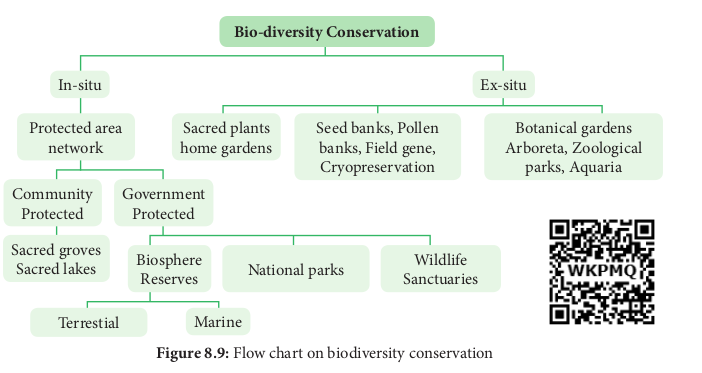
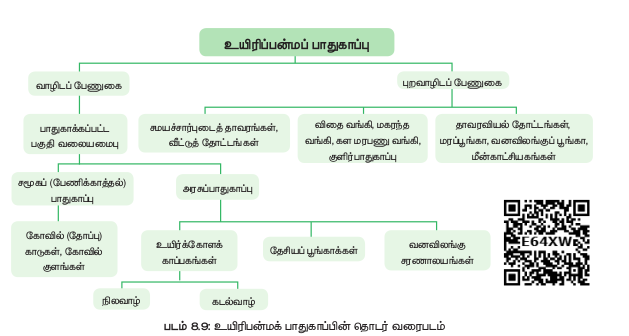
tamil content added

diff --git a/content.ta/environmental-issues/conservation.md b/content.ta/environmental-issues/conservation.md
@@ -3,62 +3,143 @@ title: 'பாதுகாப்பு'
 weight: 7
 ---
 
- 
+ நிலப்பரப்பு, புவியியல் மற்றும் காலநிலை வடிவங்கள்,
+முறைகள் ஆகியவற்றால் இந்தியா பல்வேறுபட்ட
+உயிரி வகைகளைக் க�ொண்டுள்ளன. இம்மாபெரும்
+பன்முகத்தன்மை பல சுற்றுச்சூழல் பிரச்சினைகள்
+காரணமாக
+தற்போது
+அச்சுறுத்தலுக்கு
+உள்ளாகியுள்ளது. இதற்குப் பாதுகாப்பு என்ற ஒரு
+முக்கிய கருவியை நமது ச�ொந்த மண்ணிலிருந்து பல
+இனங்கள்
+இழத்தலைக்
+குறைப்பதற்குப்
+பயன்படுத்தலாம். இனச்செல் வளக்கூறு பாதுகாப்பு,
+வாழிடப் பேணுகை(in situ) , புற வாழிடப் பேணுகை
+(ex situ), ஆய்வுக்கூட வளர்ப்பு முறைமாதிரிகள் (in
+மேலாண்மை
+உத்திகளைப்
+vitro),
+ஆகிய
+பயன்படுத்துவதன் மூலம் இடவரை (endemic) மற்றும்
+அச்சுறுத்தப்படும் சிற்றினங்கள் பாதுகாக்கப்படுகின்றன.
+
+**வாழிடப் பேணுகை பாதுகாப்பு (insitu conservation)**
+இவை இயற்கை வாழிடங்களில் காணப்படும் மரபியல்
+ஆதாரங்களின் மேலாண்மை மற்றும் பாதுகாப்பு
+என்பதாகும்.
+இங்குத்
+தாவரங்கள்
+அல்லது
+விலங்கினங்கள் தற்போதுள்ள வாழ்விடங்களிலேயே
+பாதுகாக்கப்படுகின்றன. இப்பாதுகாப்பு முறை மூலம்
+அச்சுறுத்தலுக்குட்பட்ட வன மரங்கள், மருத்துவ மற்றும்
+நறுமணத்தாவரங்கள்
+பாதுகாக்கப்படுகின்றன.
+சமுதாயம் அல்லது மாநிலப் பாதுகாப்பு மூலம்
+வனவிலங்கு, தேசியப் பூங்கா மற்றும் உயிர்கோள
+காப்பகங்கள்
+உள்ளடக்கியவை
+செயல்படுத்தப்படுகின்றன.
+சுற்றுச்சூழல்
+ரிதீயாக
+தனித்துவம் பெற்ற மற்றும் பல்வகைமை நிறைந்த
+பகுதிகள்
+சட்டப்பூர்வமாக
+வன
+விலங்கு
+சரணாலயங்கள், தேசியப் பூங்காக்கள் மற்றும்
+உயிர்கோளம்,
+உயிரியல்
+காப்பகங்களாகப்
+பாதுகாக்கப்படுகின்றன. மேகமலை , சத்தியமங்கலம்
+வன உயிரி காப்பகம், கிண்டி மற்றும் பெரியார்
+தேசியப்பூங்கா , மேற்கு த�ொடர்ச்சி மலை , நீலகிரி,
+அகஸ்திய மலை மற்றும் மன்னார் வளைகுடா
+ஆகியவை தமிழ்நாட்டின் உயிர்கோள காப்பகங்கள்
+ஆகும்.
+
+**க�ோயில் காடுகள் (sacred groves)**
+இவை சமூகங்களால் பாதுகாக்கப்பட்டு வளர்க்கப்பட்ட
+மரங்களின்
+த�ொகுப்புகளாகவ�ோ
+அல்லது
+த�ோட்டங்களாகவ�ோ சமூகத்தின் பாதுகாப்பிற்காக
+சமயச்
+சித்தாந்தங்களைக்
+ஒருகுறிப்பிட்ட
+க�ொண்டிருக்கும் வலுவான மத நம்பிக்கை க�ொண்ட
+அமைப்புகளை
+அடிப்படையாகக்
+க�ொண்டவை.
+பெரும்பாலும்
+ஒவ்வொரு
+கிராமத்துக்
+க�ோயில்காடுகளும் ஐயனார் அல்லது அம்மன் ப�ோன்ற
+கிராம ஆண், பெண் தெய்வங்களின் உறைவிடமாகவே
+இவை கருதப்படுகின்றன. தமிழ்நாடு முழுவதும் 448
+க�ோயில் காடுகள் ஆவணப்படுத்தப்பட்டுள்ளன. இதில்
+ஆறு க�ோயில் காடுகள் விரிவான தாவர மற்றும்
+விலங்கின வகை (floristic and faunistic) ஆய்வுகளுக்கு
 
 
-![Figure 8.9: Flow chart on biodiversity conservation](8.9.png "")
+![படம் 8.9: உயிரிபன்மக் பாதுகாப்பின் த�ொடர் வரைபடம்](8.20.png "")
 
-**IUCN Red List categories Extint (EX)** A taxon is Extinct when there is no reasonable doubt on the death of the last individual. A taxon is presumed Extinct when exhaustive surveys in known and/or expected habitat, at appropriate times (diurnal, seasonal, annual), throughout its historic range have failed to record an individual. Example: _Neuracanthus neesianus_.
+எடுத்துக்கொள்ளப்பட்டுள்ளன.
+(பனங்குடிச�ோலை,
+திருகுறுங்குடி
+மற்றும்
+உதயங்குடிகாடு,
+சித்தன்னவாசல், புத்துப்பட்டு மற்றும் தேவதானம்).
+இவை நீர்பாசனம், தீவனம், மருத்துவத் தாவரங்கள்
+மற்றும் நுண்காலநிலை கட்டுப்பாடு ஆகியவற்றைப்
+பாதுகாப்பதன் மூலம் ஏராளமான சுற்றுச்சூழல்
+அமைப்புச்சேவைகளை அண்டை பகுதிகளுக்கு
+வழங்குகின்றன.
 
-**Extinct in the wild (EW)** A taxon is Extinct in the Wild when it is known only to survive in cultivation, in captivity or as a naturalised population (or populations) well outside the past range. Example: _Ginkgo biloba_
+**புற வாழிடப் பேணுகை (Ex-situ conservation)**
 
-**Critically endangered (CR)** A taxon is Critically Endangered when the best available evidence indicates that it meets any of the criteria A to E for Critically Endangered, and it is therefore considered to be facing an extremely high risk of extinctions in the wild. Example: _Euphorbia santapaui, Piper barberi, Syzygium gambelianum._
+இப்பாதுகாப்பு
+முறையில்
+சிற்றினங்கள்
+இயற்கைச்சூழலுக்கு
+வெளியே
+பாதுக்காக்கப்படுகின்றன.இவை
+தாவரவியல்
+த�ோட்டங்கள்,
+விலங்கியல்
+பூங்காக்களைத்
+த�ோற்றுவித்தல், பாதுகாப்பு உத்திகளான மரபணு,
+மகரந்தம், விதை, அகவளர் முறை பாதுகாப்பு, உறை
+குளிர் பாதுகாப்பு , நாற்றுகள், திசு வளர்ப்பு மற்றும் DNA
+வங்கிகள் மூலம் பாதுகாக்கப்படுகின்றன. இந்த
+வசதிகள் அச்சுருத்தலுக்குண்டான சிற்றினங்களுக்கு
+உறைவிடம் மற்றும் பராமரிப்பு வழங்குவத�ோடு
+மட்டுமல்லாமல் சமுதாயத்திற்கான கல்வி மற்றும்
+ப�ொழுதுப�ோக்கு அம்சங்களையும் பெற்றுத் தருகின்றன.
 
-**Endangered (EN)**
-
-A taxon is Endangered when the best available evidence indicates that it meets any of the criteria A to E for Endangered, and it is therefore considered to be facing a very high risk of extinction in the wild. Example: Elaeocarpus venustus, Pogostemon nilagricus, Eugenia singampattiana.
-
-**Vulnerable (VU)**
-
-A taxon is Vulnerable when the best available evidence indicates that it meets any other criteria A to E for Vulnerable, and it is therefore considered to be facing a high risk of extinction in the wild. Example: Dalbergia latifolia, Santalum album, Chloroxylon sweitenia
-
-**Near threatened (NT)**
-
-A taxon is Near Threatened when it has been
-evaluated against the criteria but does not
-qualify for Critically Endangered, Endangered
-or Vulnerable now, but is close to qualifying for
-or is likely to qualify for threatened category in
-the near future.
-
-**Least concerned (LC)**
-
-A taxon is Least Concerned when it has been
-evaluated against the criteria and does not
-qualify for Critically Endangered, Endangered,
-Vulnerable or Near Threatened, Widespread
-and abundant taxa are included in this category.
-
-**Data deficient (DD)**
-
-A taxon is Data Deficient when there is inadequate
-information to make a direct, or indirect,
-assessment of the risk of extinction based on its
-distribution and/or population status.
-
-**Not evaluated (NE)**
-A taxon is Not Evaluated when it has not yet
-been evaluated against the criteria
+8.7.1 இயற்கை பாதுகாப்பிற்கான பன்னாட்டு
+ஒன்றியம் (International Union for Conservation
+of Nature - IUCN)
+இயற்கை பாதுகாப்பிற்கான பன்னாட்டு ஒன்றியம்
+(IUCN) 1948 அம் ஆண்டு த�ோற்றுவிக்கப்பட்ட உலகின்
+பழமையான சுற்றுச்சூழல் அமைப்பாகும். இதன்
+தலைமையகம் சுவிட்ஸர்லாந்து நாட்டிலுள்ள க்லாந்து
+எனும் இடத்திலுள்ளது. இது அரசு, அரசு சாரா
+நிறுவனங்கள், விஞ்ஞானிகள், வணிகம் மற்றும்
+உள்ளாட்சி சமுதாயங்களுக்கும் ஒரு நடுநிலைஅமைப்பாக விளங்குகிறது. சுற்றுச்சூழல் பாதுகாப்பு
+மற்றும் நிலையான வளர்ச்சியுடன் த�ொடர்புடைய
+க�ொள்கைகளை நடைமுறைப்படுத்தும் ந�ோக்கத்துடன்
+இது உருவாக்கப்பட்டுள்ளது.
+IUCN சிவப்பு பட்டியல் (செம்பட்டியல்)
+இப் பட்டியலின் பிரிவுகள், தாவர மற்றும் விலங்கின
+வளங்களுக்கு ஏற்படும் அச்சுறுத்தல்களின் விகிதம்
+மற்றும் பாதுகாப்பு முன்னுரிமைகள் ஆகியவற்றை
+மதிப்பீடு செய்ய நமக்கு உதவுகிறது.
 
 
-### Endemic Centres and Endemic Plants
- Endemic species are plants and animals that exist only in one geographic region. Species can be endemic to large or small areas of the earth. Some are endemic to a particular continent, some to a part of a continent and others to a single island.
+![படம் 8.9: உயிரிபன்மக் பாதுகாப்பின் த�ொடர் வரைபடம்](8.9.png "")
 
-Any species found restricted to a specified geographical area is referred to as ENDEMIC.. It may be due to various reasons such as isolation, interspecific interactions, seeds dispersal problems, site specificity and many other environmental and ecological problems. There are 3 Megacentres of endemism and 27 microendemic centres in India. Approximately one third of Indian flora have been identified as endemic and found restricted and distributed in three major phytogeographical regions of india, that is Indian Himalayas, Peninsular India and Andaman nicobar islands. Peninsular India, especially Western Ghats has high concentration of endemic plants. _Hardwickia_ _binata_ and _Bentinckia condapanna_ are good examples for endemic plants. A large percentage of Endemic species are herbs and belong to families such as Poaceae. Apiaceae, Asteraceae and Orchidaceae. 
 
-![Table 1 : Endemic plants](8.19.png "")
-
-Majority of endemic species are threatened due to their narrow specific habitat, reduced seed production, low dispersal rate, less viable nature and human intereferences.. Serious efforts need to be undertaken for their conservation, otherwise these species may become globally extinct.
-
-![Table 1 : Endemic plants](8.10.png "")
 
